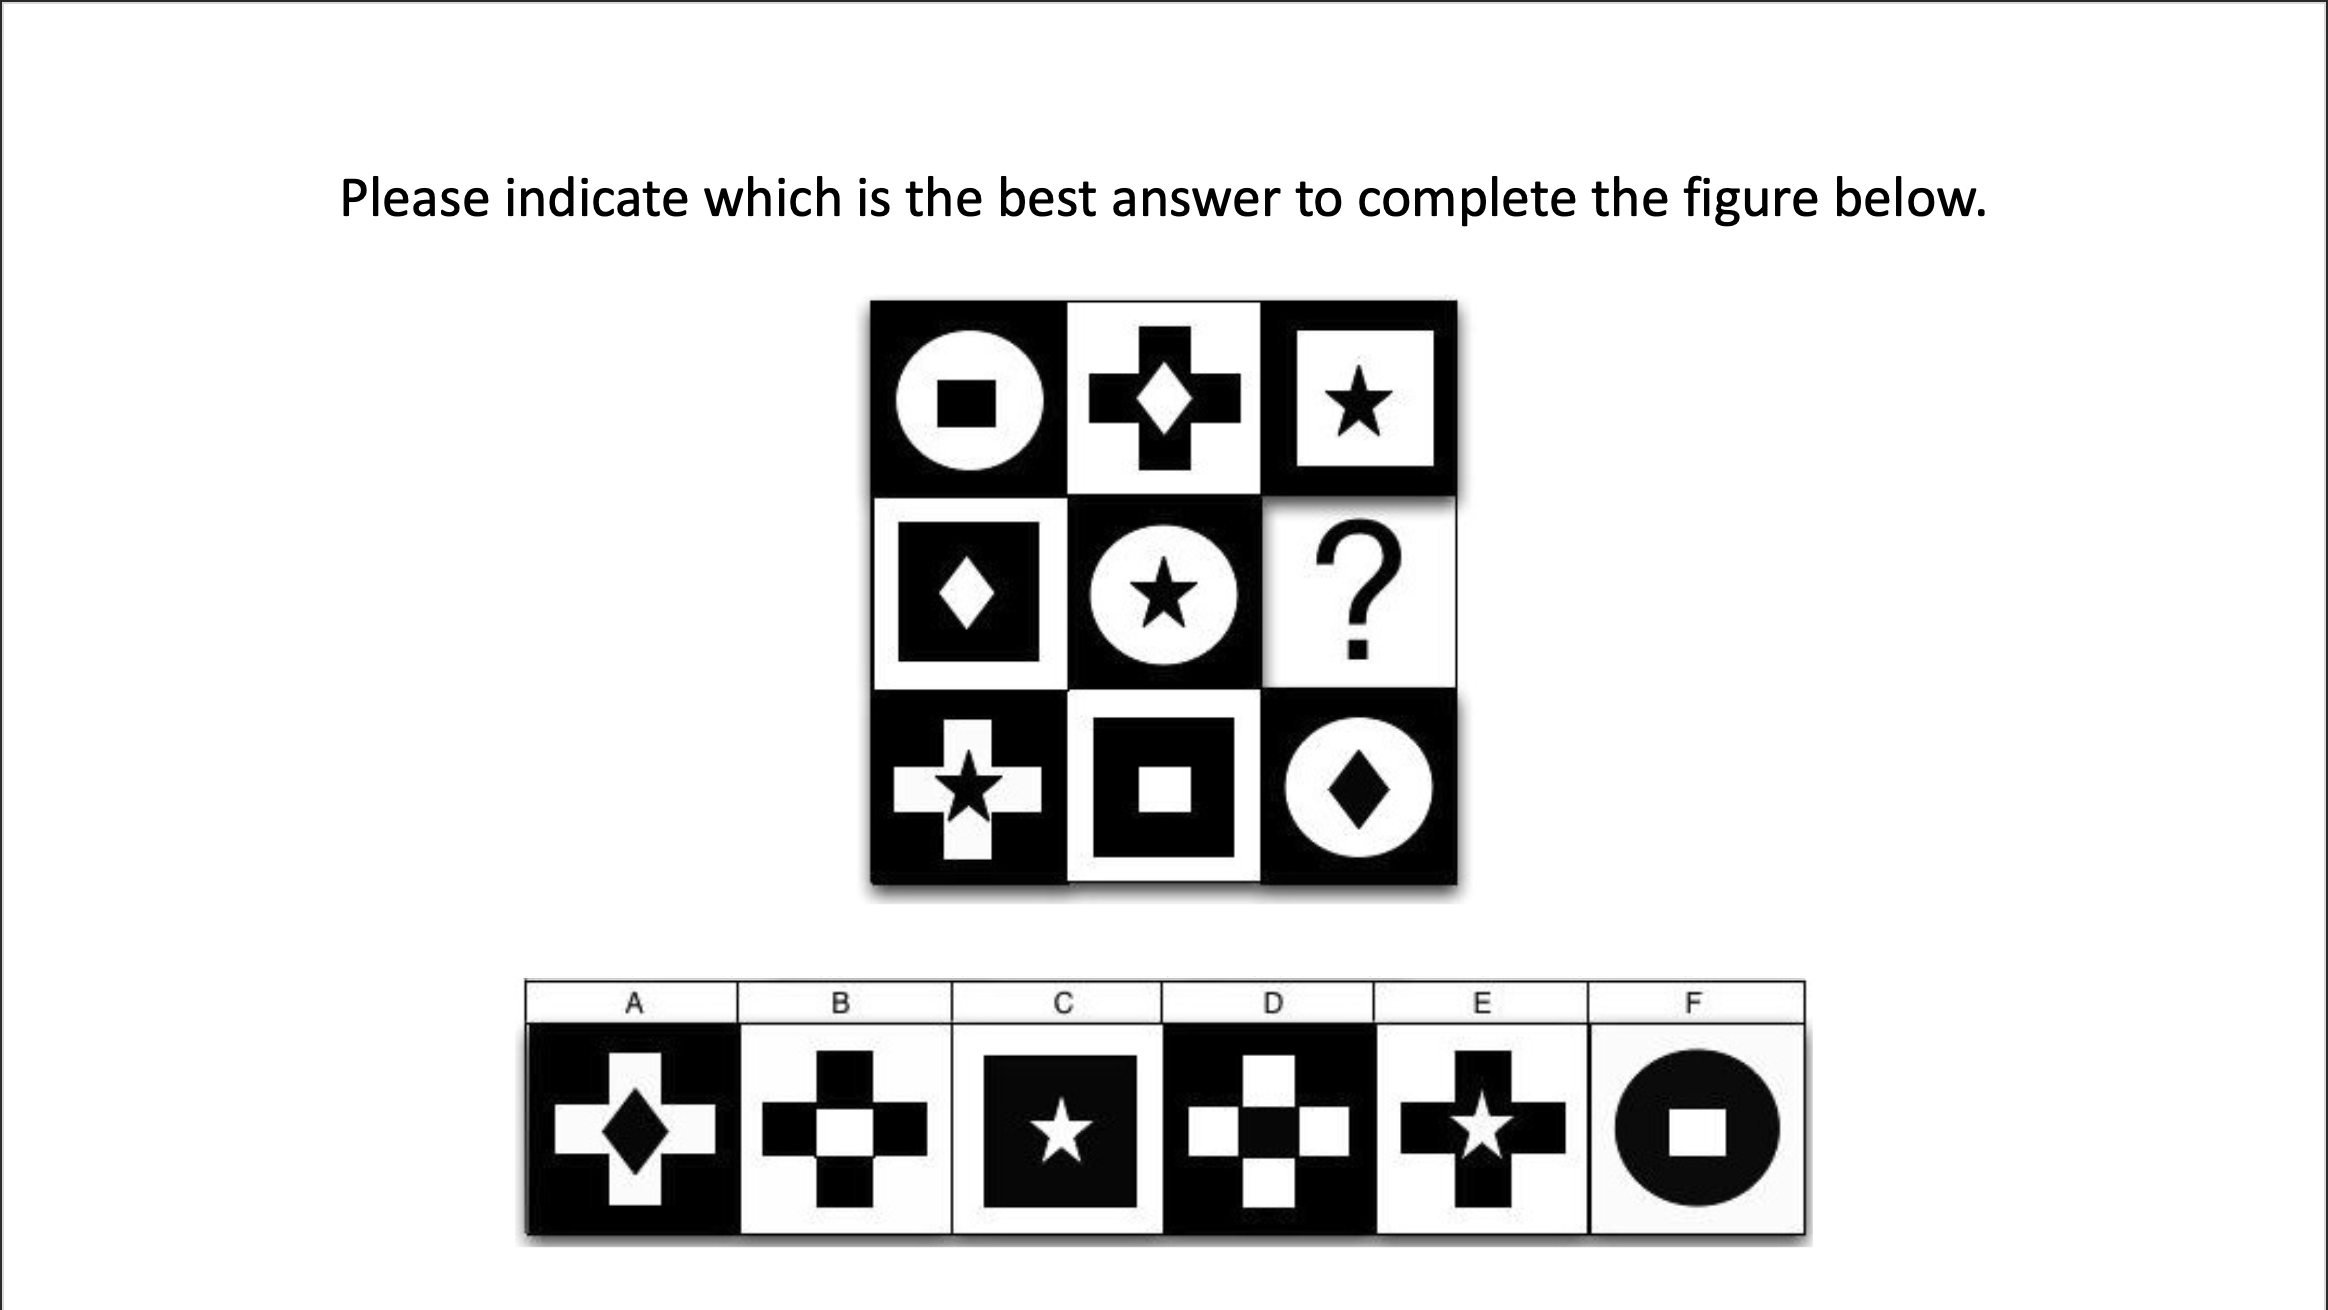
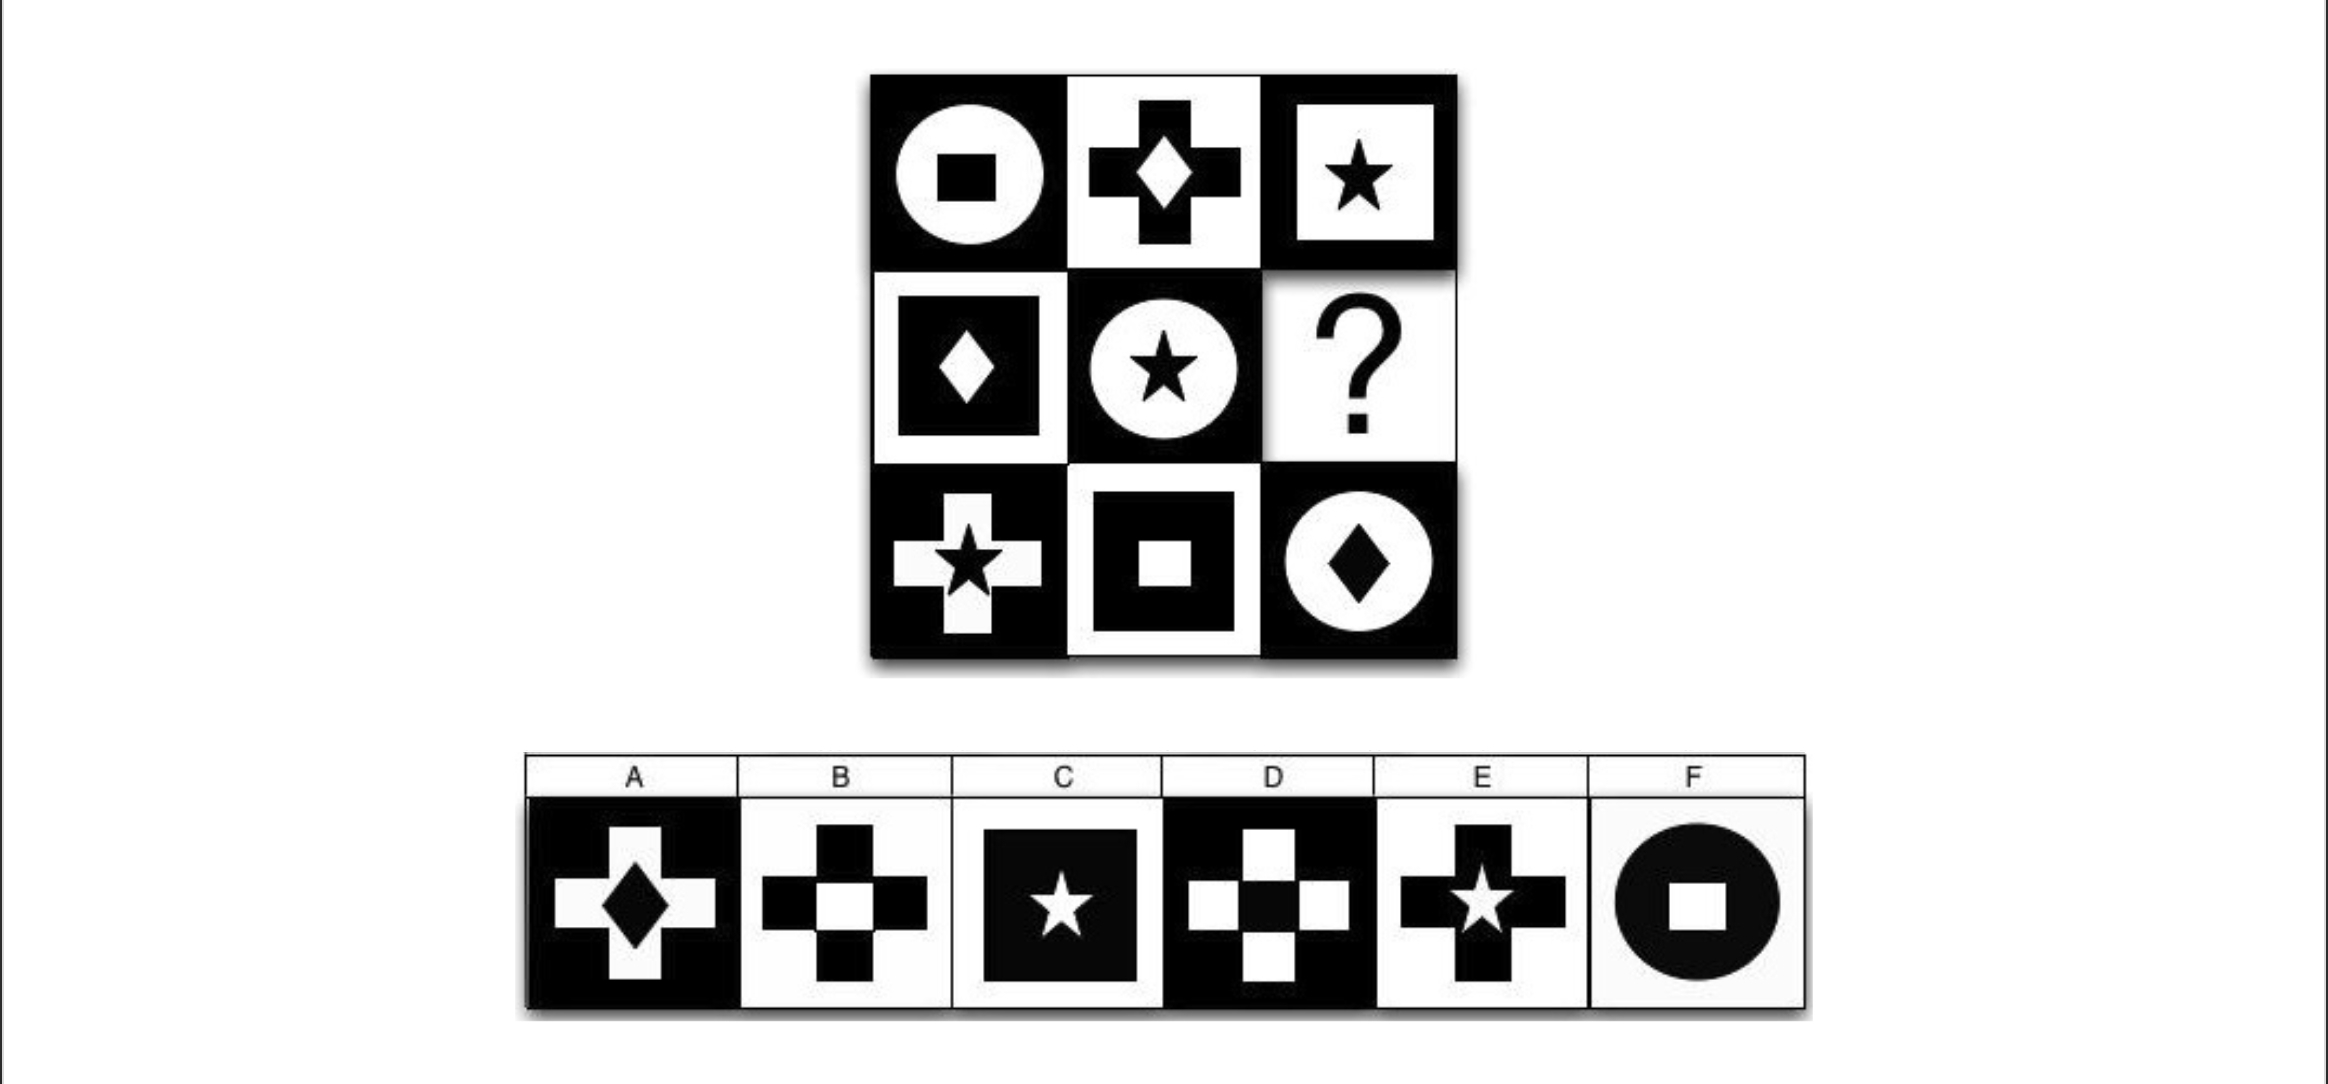
ICAR bug fixing

Changed region(s): [[0.1546, 0.0609, 0.866, 0.9742]]

diff --git a/static/js/jspsych/plugins/jspsych-survey-questionnaire/jspsych-ICAR.js b/static/js/jspsych/plugins/jspsych-survey-questionnaire/jspsych-ICAR.js
@@ -125,15 +125,14 @@ jsPsych.plugins['ICAR'] = (function () {
         ".matrix-reasoning-wrap { display: flex; position: relative; }" +
         ".matrix-reasoning-wrap ul { position: absolute; display: flex; justify-content: center; height: 113px; margin-bottom: 3rem; padding-left: 0; bottom: 0; left: 0; right: 0; }" +
         ".matrix-reasoning-wrap ul li { width: 92px; opacity: .4; }" +
+        ".matrix-reasoning-wrap ul label { width: 100%; height: 100%;}" +
         ".matrix-reasoning-wrap ul li.active { background-color: yellow; }" +
-        "img { width: 1000px; }" +
-        ".three-dimensional-rotate-wrap { display: flex; position: relative; }" +
-        ".three-dimensional-rotate-wrap .three-dimensional-rotate-first { position: absolute; display: flex; justify-content: center; height: 215px; padding-left: 0; top: 0; right: 0; }" +
-        ".three-dimensional-rotate-wrap .three-dimensional-rotate-first li { width: 183px; opacity: .4; }" +
-        ".three-dimensional-rotate-wrap .three-dimensional-rotate-first li.active { background-color: yellow; }" +
-        ".three-dimensional-rotate-wrap .three-dimensional-rotate-secondary { position: absolute; display: flex; justify-content: center; height: 200px; padding-left: 0; margin-bottom: 0; bottom: 0; right: 0; }" +
-        ".three-dimensional-rotate-wrap .three-dimensional-rotate-secondary li { width: 183px; opacity: .4; }" +
-        ".three-dimensional-rotate-wrap .three-dimensional-rotate-secondary li.active { background-color: yellow; }" +
+        "img { width: 100%; }" +
+        ".three-dimensional-rotate-wrap { display: flex; position: relative; width: 1000px; }" +
+        ".three-dimensional-rotate-wrap ul { position: absolute; display: flex; flex-wrap: wrap; justify-content: center; height: 100%; width: 73%; padding-left: 0; margin-bottom: 0; bottom: 0; right: 0; }" +
+        ".three-dimensional-rotate-wrap ul label { width: 100%; height: 100%;}" +
+        ".three-dimensional-rotate-wrap ul li { width: 25%; height: 50%; opacity: .4; }" +
+        ".three-dimensional-rotate-wrap ul li.active { background-color: yellow; }" +
 
         ".jspsych-survey-multi-choice-text span.required {color: darkred;}" +
         ".jspsych-survey-multi-choice-horizontal .jspsych-survey-multi-choice-text {  text-align: center;}" +
@@ -145,7 +144,7 @@ jsPsych.plugins['ICAR'] = (function () {
         "ul {list-style: none}" +
         ".jspsych-btn { margin: 100px 0; }" +
         ".jspsych-content { margin-top: 130px;}" +
-        ".jspsych-survey-container-radio { display: flex; flex-direction: column; padding-left: 3rem; }" +
+        // ".jspsych-survey-container-radio { display: flex; flex-direction: column; padding-left: 3rem; }" +
         ".jspsych-survey-multi-choice-preamble { text-align: left; border-top: 1px solid #fff;}" +
         ".jspsych-survey-multi-choice-information { display: flex; justify-content: space-between }" +
         ".jspsych-survey-multi-choice-information div { width: 40%; text-align: left; padding: 2rem 0; }" +
@@ -246,16 +245,7 @@ jsPsych.plugins['ICAR'] = (function () {
           html += '<p class="jspsych-survey-multi-choice-question survey-multi-choice" style="padding-top: 3px; text-align: left;">' + question.prompt + '</p>';
           // add question image
           html += '<div class="matrix-reasoning-wrap"><img class="matrix-reasoning" src="/static/images/ICAR/matrix_reasoning/' + question.img + '">';
-          html += '<ul>' +
-            '<li class="matrix-reasoning-' + question_id + '-0"></li>' +
-            '<li class="matrix-reasoning-' + question_id + '-1"></li>' +
-            '<li class="matrix-reasoning-' + question_id + '-2"></li>' +
-            '<li class="matrix-reasoning-' + question_id + '-3"></li>' +
-            '<li class="matrix-reasoning-' + question_id + '-4"></li>' +
-            '<li class="matrix-reasoning-' + question_id + '-5"></li>' +
-          '</ul>';
-          html += '</div>';
-          html += '<div class="jspsych-survey-container-radio">';
+          html += '<ul class="jspsych-survey-container-radio">';
     
           // create option radio buttons
           for (var j = 0; j < question.options.length; j++) {
@@ -267,36 +257,23 @@ jsPsych.plugins['ICAR'] = (function () {
             var required_attr = question.required ? 'required' : '';
     
             // add radio button container
-            html += '<div id="' + option_id_name + '" class="jspsych-survey-multi-choice-option">';
-            html += '<label class="jspsych-survey-multi-choice-text jspsych-survey-highlight" data-time-stamp="Q' + (i+1) + '"  for="' + input_id + '">' + question.options[j] + '</label>';
-            html += '<input type="radio" name="' + input_name + '" data-response-id="' + question.options[j] + '" data-matrix-reasoning="matrix-reasoning-'+ question_id + '-' + j + '" data-time-stamp="Q' + (i+1) + '" data-question-number="Q' + (i+1) +'A' + (j+1) +'" id="' + input_id + '" class="form-radio" value="NA" ' + required_attr + '></input>';
-            html += '</div>';
+            html += '<li id="' + option_id_name + '">';
+            html += '<label class="jspsych-survey-multi-choice-text jspsych-survey-highlight" data-time-stamp="Q' + (i+1) + '"  for="' + input_id + '"></label>';
+            html += '<input type="radio" class="hidden" name="' + input_name + '" data-response-id="' + question.options[j] + '" data-matrix-reasoning="matrix-reasoning-'+ question_id + '-' + j + '" data-time-stamp="Q' + (i+1) + '" data-question-number="Q' + (i+1) +'A' + (j+1) +'" id="' + input_id + '" class="form-radio" value="NA" ' + required_attr + '></input>';
+            html += '</li>';
           }
-    
+          html += '</ul>';
           html += '</div></div>';
         }
 
         // Three Dimensional Rotate
         else if(question.name === 'three_dimensional_rotate') {
-          html += '<div id="jspsych-survey-multi-choice-' + question_id + '" class="' + question_classes.join(' ') + '" style="display: none;"  data-name="' + question.number + '">';
+          html += '<div id="jspsych-survey-multi-choice-' + question_id + '" class="' + question_classes.join(' ') + '"  style="display: none;" data-name="' + question.number + '">';
     
           // add question image
           html += '<p class="jspsych-survey-multi-choice-question survey-multi-choice" style="padding-top: 3px; text-align: left;">' + question.prompt + '</p>';
           html += '<div class="three-dimensional-rotate-wrap"><img class="three-dimensional-rotate" src="/static/images/ICAR/three-dimensional_rotate/' + question.img + '">';
-          html += '<ul class="three-dimensional-rotate-first">' +
-            '<li class="three-dimensional-rotate-' + question_id + '-0"></li>' +
-            '<li class="three-dimensional-rotate-' + question_id + '-1"></li>' +
-            '<li class="three-dimensional-rotate-' + question_id + '-2"></li>' +
-            '<li class="three-dimensional-rotate-' + question_id + '-3"></li>' +
-          '</ul>';
-          html += '<ul class="three-dimensional-rotate-secondary">' +
-            '<li class="three-dimensional-rotate-' + question_id + '-4"></li>' +
-            '<li class="three-dimensional-rotate-' + question_id + '-5"></li>' +
-            '<li class="three-dimensional-rotate-' + question_id + '-6"></li>' +
-            '<li class="three-dimensional-rotate-' + question_id + '-7"></li>' +
-          '</ul>';
-          html += '</div>';
-          html += '<div class="jspsych-survey-container-radio">';
+          html += '<ul class="jspsych-survey-container-radio">';
     
           // create option radio buttons
           for (var j = 0; j < question.options.length; j++) {
@@ -308,12 +285,12 @@ jsPsych.plugins['ICAR'] = (function () {
             var required_attr = question.required ? 'required' : '';
     
             // add radio button container
-            html += '<div id="' + option_id_name + '" class="jspsych-survey-multi-choice-option">';
-            html += '<label class="jspsych-survey-multi-choice-text jspsych-survey-highlight" data-time-stamp="Q' + (i+1) + '"  for="' + input_id + '">' + question.options[j] + '</label>';
-            html += '<input type="radio" name="' + input_name + '" data-response-id="' + question.options[j] + '" data-three-dimensional-rotate="three-dimensional-rotate-'+ question_id + '-' + j + '" data-time-stamp="Q' + (i+1) + '" data-question-number="Q' + (i+1) +'A' + (j+1) +'" id="' + input_id + '" class="form-radio" value="NA" ' + required_attr + '></input>';
-            html += '</div>';
+            html += '<li id="' + option_id_name + '">';
+            html += '<label class="jspsych-survey-multi-choice-text jspsych-survey-highlight" data-time-stamp="Q' + (i+1) + '"  for="' + input_id + '"></label>';
+            html += '<input type="radio" class="hidden" name="' + input_name + '" data-response-id="' + question.options[j] + '" data-three-dimensional-rotate="three-dimensional-rotate-'+ question_id + '-' + j + '" data-time-stamp="Q' + (i+1) + '" data-question-number="Q' + (i+1) +'A' + (j+1) +'" id="' + input_id + '" class="form-radio" value="NA" ' + required_attr + '></input>';
+            html += '</li>';
           }
-    
+          html += '</ul>';
           html += '</div></div>';
         }
       }
@@ -429,15 +406,11 @@ jsPsych.plugins['ICAR'] = (function () {
 
       $( "input" ).on( "click", function() {
         if($(this)[0].dataset.matrixReasoning) {
-          var matrix_el = $(this)[0].dataset.matrixReasoning;
           $( ".matrix-reasoning-wrap ul li" ).removeClass( "active" )
-          var element = document.getElementsByClassName(matrix_el);
-          $(element).addClass("active");
+          $(this).parent('li').addClass('active');
         } else if($(this)[0].dataset.threeDimensionalRotate) {
-          var matrix_el = $(this)[0].dataset.threeDimensionalRotate;
           $( ".three-dimensional-rotate-wrap ul li" ).removeClass( "active" )
-          var element = document.getElementsByClassName(matrix_el);
-          $(element).addClass("active");
+          $(this).parent('li').addClass('active');
         }
       });
 

diff --git a/static/js/jspsych/plugins/jspsych-survey-questionnaire/jspsych-survey-questionnaire-data.js b/static/js/jspsych/plugins/jspsych-survey-questionnaire/jspsych-survey-questionnaire-data.js
@@ -1558,7 +1558,7 @@ for ( i = 0; i < matrix_reasoning_numbers.length ; i++ ) {
     var pathNum = matrix_reasoning_numbers[i]
     matrix_reasoning.push(
         {
-            prompt: '',
+            prompt: 'Please indicate which is the best answer to complete the figure below.',
             img: 'MR.' + pathNum + '.jpg',
             options: ['A', 'B', 'C', 'D', 'E', 'F'],
             horizontal: false,
@@ -1780,15 +1780,11 @@ var verbal_reasoning_new = _.shuffle(verbal_reasoning).slice(0,4);
 var three_dimensional_rotate_new = _.shuffle(three_dimensional_rotate).slice(0,4);
 var matrix_reasoning_new = _.shuffle(matrix_reasoning).slice(0,4);
 
-letter_number_series_new.forEach(element => {
-    ICAR.questions.push(element);
-});
-matrix_reasoning_new.forEach(element => {
-    ICAR.questions.push(element);
-});
-verbal_reasoning_new.forEach(element => {
-    ICAR.questions.push(element);
-});
-three_dimensional_rotate_new.forEach(element => {
-    ICAR.questions.push(element);
+var icar_arr = [verbal_reasoning_new, letter_number_series_new, three_dimensional_rotate_new, matrix_reasoning_new];
+var icar_shuffled_arr = jsPsych.randomization.shuffle(icar_arr);
+
+icar_shuffled_arr.forEach(function(arr) {
+    arr.forEach(function(element) {
+        ICAR.questions.push(element);
+    });
 });

diff --git a/static/js/jspsych/plugins/jspsych-survey-questionnaire/jspsych-EAT-26.js b/static/js/jspsych/plugins/jspsych-survey-questionnaire/jspsych-EAT-26.js
@@ -210,7 +210,7 @@ jsPsych.plugins['EAT-26'] = (function () {
   
           // add radio button container
           html += '<div id="' + option_id_name + '" class="jspsych-survey-multi-choice-option">';
-          html += '<label class="jspsych-survey-multi-choice-text jspsych-survey-highlight hidden" for="' + input_id + '">' + question.options[j] + '</label>';
+          html += '<label class="jspsych-survey-multi-choice-text jspsych-survey-highlight hidden" data-time-stamp="Q' + (i+1) + '" for="' + input_id + '">' + question.options[j] + '</label>';
           html += '<input hidden type="radio" name="' + input_name + '" data-time-stamp="Q' + (i+1) + '" data-question-number="Q' + (i+1) +'A' + (j+1) +'" id="' + input_id + '" class="form-radio" value="' + question.options[j] + '" ' + required_attr + '></input>';
           html += '</div>';
         }
